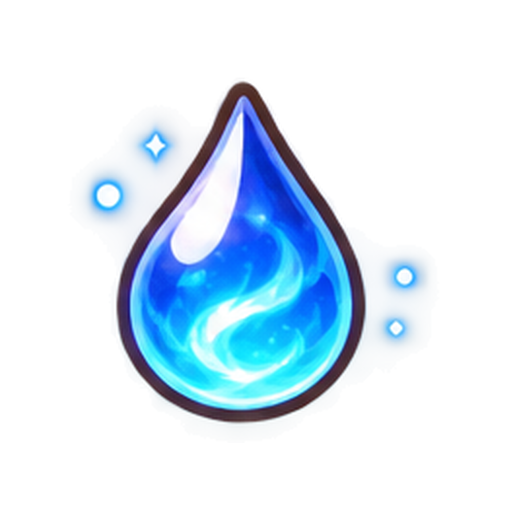
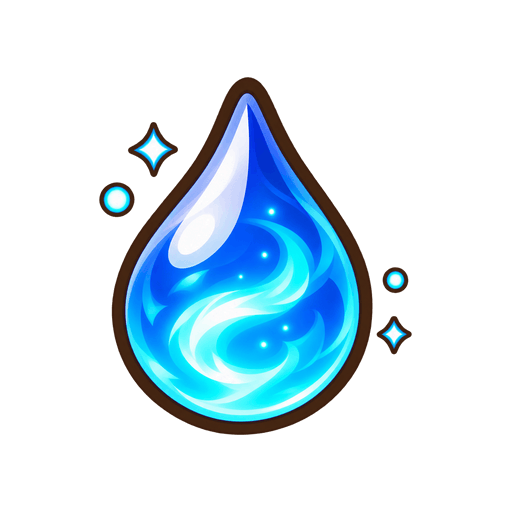
魔力のかけらとしずくを描き直す

Changed region(s): [[0.2188, 0.125, 0.8438, 0.875], [0.1562, 0.3125, 0.2812, 0.4375]]

diff --git a/js/ui/precache.js b/js/ui/precache.js
@@ -1,2 +1,2 @@
-self.CF_CACHE_VERSION="f06e5a0312164f7f";
+self.CF_CACHE_VERSION="4c02900524c205b7";
 self.CF_ASSETS=["index.html","manifest.webmanifest","css/accessibility.css","css/battle.css","css/beast.css","css/card-base.css","css/card-zoom.css","css/chat.css","css/components.css","css/deck.css","css/experience.css","css/finishing-art.css","css/fit.css","css/help-guide.css","css/hologram.css","css/kingdom.css","css/layout.css","css/mana-growth.css","css/materials.css","css/motion.css","css/mp.css","css/polish.css","css/rarity-assets.css","css/rarity-fx.css","css/settings.css","css/step5.css","css/style.css","css/text-fit.css","css/theme.css","css/tokens.css","css/tutorial.css","css/weather.css","js/game/Card.js","js/game/Castle.js","js/game/Game.js","js/game/Monster.js","js/game/Player.js","js/game/Road.js","js/game/Setup.js","js/game/Soldier.js","js/game/Weather.js","js/game/strategies.js","js/game/visibility.js","js/main.js","js/ui/Accessibility.js","js/ui/Animations.js","js/ui/BattleLayout.js","js/ui/CardGuide.js","js/ui/CardInfo.js","js/ui/CardRelief.js","js/ui/CardZoom.js","js/ui/ChatView.js","js/ui/DebugPanel.js","js/ui/DeckEditor.js","js/ui/DeckPreview.js","js/ui/DeckStore.js","js/ui/HandView.js","js/ui/HelpView.js","js/ui/Hologram.js","js/ui/LocalSetup.js","js/ui/MatchStats.js","js/ui/MaterialSkin.js","js/ui/Music.js","js/ui/OnlineClient.js","js/ui/ProgressPanel.js","js/ui/Renderer.js","js/ui/RoomView.js","js/ui/Session.js","js/ui/Settings.js","js/ui/Sound.js","js/ui/Targeting.js","js/ui/Tutorial.js","js/ui/UpgradePanel.js","js/ui/WeatherView.js","js/ui/art.js","js/ui/cardFrame.js","js/ui/cardView.js","js/ui/config.js","js/ui/handOrder.js","js/ui/look.js","js/ui/motion.js","js/ui/pills.js","js/ui/rarity.js","js/ui/stories.js","js/ui/syncCheck.js","js/ui/text.js","data/cards.json","data/castles.json","data/decks.json","data/monsters.json","data/rarities.json","data/rules.json","data/stamps.json","data/upgrades.json","data/weather.json","assets/asset-manifest.json","assets/bg/board-meadow-compact.png","assets/bg/board-meadow.png","assets/bg/board.png","assets/bg/kingdom-meadow.png","assets/bg/kingdom-valley.png","assets/bg/title-compact.png","assets/bg/title.png","assets/cards/card-absolute-zero.png","assets/cards/card-adapt.png","assets/cards/card-apocalypse.png","assets/cards/card-apprentice-archer.png","assets/cards/card-apprentice-mage.png","assets/cards/card-archer.png","assets/cards/card-archmage.png","assets/cards/card-barrier.png","assets/cards/card-beast-bat.png","assets/cards/card-beast-demon-king.png","assets/cards/card-beast-demon.png","assets/cards/card-beast-dragon.png","assets/cards/card-beast-ghost.png","assets/cards/card-beast-goblin.png","assets/cards/card-beast-golem.png","assets/cards/card-beast-mimic.png","assets/cards/card-beast-skeleton.png","assets/cards/card-beast-slime.png","assets/cards/card-beast-treant.png","assets/cards/card-beast-vampire.png","assets/cards/card-big-shield.png","assets/cards/card-big-thunder.png","assets/cards/card-blessing.png","assets/cards/card-bolt.png","assets/cards/card-cavalry.png","assets/cards/card-coin-pouch.png","assets/cards/card-death-mist.png","assets/cards/card-decoy.png","assets/cards/card-deep-freeze.png","assets/cards/card-dragon-knight.png","assets/cards/card-earth-hammer.png","assets/cards/card-earth-king.png","assets/cards/card-earth-spirit.png","assets/cards/card-fire-king.png","assets/cards/card-fire-spirit.png","assets/cards/card-fireball.png","assets/cards/card-flame-sword.png","assets/cards/card-frost-breath.png","assets/cards/card-frozen-world.png","assets/cards/card-gate.png","assets/cards/card-giant.png","assets/cards/card-glacier.png","assets/cards/card-god-shield.png","assets/cards/card-god-sword.png","assets/cards/card-goddess.png","assets/cards/card-gold-coin.png","assets/cards/card-gold-vein.png","assets/cards/card-great-earth-spirit.png","assets/cards/card-great-fire-spirit.png","assets/cards/card-great-heal.png","assets/cards/card-great-water-spirit.png","assets/cards/card-great-wind-spirit.png","assets/cards/card-heal.png","assets/cards/card-heavy.png","assets/cards/card-hero.png","assets/cards/card-holy-light.png","assets/cards/card-holy-shield.png","assets/cards/card-holy-sword.png","assets/cards/card-infantry.png","assets/cards/card-inferno.png","assets/cards/card-iron-sword.png","assets/cards/card-judgment.png","assets/cards/card-king-treasure.png","assets/cards/card-knight.png","assets/cards/card-longbowman.png","assets/cards/card-mage.png","assets/cards/card-magic-sword.png","assets/cards/card-mana-crystal.png","assets/cards/card-mana-drop.png","assets/cards/card-mana-shard.png","assets/cards/card-mana-spring.png","assets/cards/card-meteor.png","assets/cards/card-minor-heal.png","assets/cards/card-paladin.png","assets/cards/card-plague.png","assets/cards/card-poison-mist.png","assets/cards/card-prayer.png","assets/cards/card-raijin.png","assets/cards/card-reflect.png","assets/cards/card-sage.png","assets/cards/card-sandbag.png","assets/cards/card-scout.png","assets/cards/card-shield.png","assets/cards/card-sky-archer.png","assets/cards/card-sniper.png","assets/cards/card-sorcerer.png","assets/cards/card-spearman.png","assets/cards/card-starfall.png","assets/cards/card-steel-shield.png","assets/cards/card-stone-wall.png","assets/cards/card-thief.png","assets/cards/card-thunder.png","assets/cards/card-toxic-rain.png","assets/cards/card-treasure.png","assets/cards/card-venom.png","assets/cards/card-wall.png","assets/cards/card-water-king.png","assets/cards/card-water-spear.png","assets/cards/card-water-spirit.png","assets/cards/card-weather-call.png","assets/cards/card-wind-bow.png","assets/cards/card-wind-king.png","assets/cards/card-wind-spirit.png","assets/cards/card-world-tree-dew.png","assets/cards/frame-beast.png","assets/cards/frame-common.png","assets/cards/frame-defense.png","assets/cards/frame-epic.png","assets/cards/frame-legendary.png","assets/cards/frame-rare.png","assets/cards/frame-soldier.png","assets/cards/frame-special.png","assets/cards/frame-spell.png","assets/cards/frame-uncommon.png","assets/cards/frame-weapon.png","assets/cards/relief/frame-beast-raised.png","assets/cards/relief/frame-beast-relief.png","assets/cards/relief/frame-common-raised.png","assets/cards/relief/frame-common-relief.png","assets/cards/relief/frame-defense-raised.png","assets/cards/relief/frame-defense-relief.png","assets/cards/relief/frame-epic-raised.png","assets/cards/relief/frame-epic-relief.png","assets/cards/relief/frame-legendary-raised.png","assets/cards/relief/frame-legendary-relief.png","assets/cards/relief/frame-rare-raised.png","assets/cards/relief/frame-rare-relief.png","assets/cards/relief/frame-soldier-raised.png","assets/cards/relief/frame-soldier-relief.png","assets/cards/relief/frame-special-raised.png","assets/cards/relief/frame-special-relief.png","assets/cards/relief/frame-spell-raised.png","assets/cards/relief/frame-spell-relief.png","assets/cards/relief/frame-uncommon-raised.png","assets/cards/relief/frame-uncommon-relief.png","assets/cards/relief/frame-weapon-raised.png","assets/cards/relief/frame-weapon-relief.png","assets/castles/barracks-blue-damaged-1.png","assets/castles/barracks-blue-damaged-2.png","assets/castles/barracks-blue-damaged-3.png","assets/castles/barracks-blue.png","assets/castles/barracks-orange-damaged-1.png","assets/castles/barracks-orange-damaged-2.png","assets/castles/barracks-orange-damaged-3.png","assets/castles/barracks-orange.png","assets/castles/castle-blue-damaged-1.png","assets/castles/castle-blue-damaged-2.png","assets/castles/castle-blue-damaged-3.png","assets/castles/castle-blue-ruined.png","assets/castles/castle-blue.png","assets/castles/castle-orange-damaged-1.png","assets/castles/castle-orange-damaged-2.png","assets/castles/castle-orange-damaged-3.png","assets/castles/castle-orange-ruined.png","assets/castles/castle-orange.png","assets/castles/fortress-blue-damaged-1.png","assets/castles/fortress-blue-damaged-2.png","assets/castles/fortress-blue-damaged-3.png","assets/castles/fortress-blue.png","assets/castles/fortress-orange-damaged-1.png","assets/castles/fortress-orange-damaged-2.png","assets/castles/fortress-orange-damaged-3.png","assets/castles/fortress-orange.png","assets/castles/tower-blue-damaged-1.png","assets/castles/tower-blue-damaged-2.png","assets/castles/tower-blue-damaged-3.png","assets/castles/tower-blue.png","assets/castles/tower-orange-damaged-1.png","assets/castles/tower-orange-damaged-2.png","assets/castles/tower-orange-damaged-3.png","assets/castles/tower-orange.png","assets/fx/dust.png","assets/fx/evolve-1.png","assets/fx/evolve-2.png","assets/fx/evolve-3.png","assets/fx/explosion.png","assets/fx/fireball.png","assets/fx/fusion.png","assets/fx/heal.png","assets/fx/ice.png","assets/fx/lightning.png","assets/fx/lucky-reward.png","assets/fx/poison.png","assets/ui/app-icon-192.png","assets/ui/app-icon-512.png","assets/ui/app-icon-maskable-512.png","assets/ui/apple-touch-icon.png","assets/ui/banner-win.png","assets/ui/btn-blue.png","assets/ui/btn-cream.png","assets/ui/btn-green.png","assets/ui/btn-orange.png","assets/ui/btn-red.png","assets/ui/btn-round.png","assets/ui/button-end-turn.png","assets/ui/card-back.png","assets/ui/icon-coin.png","assets/ui/icon-earth.png","assets/ui/icon-fire.png","assets/ui/icon-heart.png","assets/ui/icon-help.png","assets/ui/icon-kind-defense.png","assets/ui/icon-kind-soldier.png","assets/ui/icon-kind-spell.png","assets/ui/icon-kind-weapon.png","assets/ui/icon-kind-wild.png","assets/ui/icon-luck.png","assets/ui/icon-mode-local.png","assets/ui/icon-mode-online.png","assets/ui/icon-mode-solo.png","assets/ui/icon-mp.png","assets/ui/icon-rarity-common.png","assets/ui/icon-rarity-epic.png","assets/ui/icon-rarity-legendary.png","assets/ui/icon-rarity-rare.png","assets/ui/icon-rarity-special.png","assets/ui/icon-rarity-uncommon.png","assets/ui/icon-water.png","assets/ui/icon-wind.png","assets/ui/kingdom-crest.png","assets/ui/kingdom-parchment.png","assets/ui/kingdom-platform.png","assets/ui/kingdom-primary.png","assets/ui/kingdom-secondary.png","assets/ui/kingdom-wood.png","assets/ui/logo.png","assets/ui/natural/danger-40-left.png","assets/ui/natural/danger-40-middle.png","assets/ui/natural/danger-40-right.png","assets/ui/natural/danger-44-left.png","assets/ui/natural/danger-44-middle.png","assets/ui/natural/danger-44-right.png","assets/ui/natural/danger-72-left.png","assets/ui/natural/danger-72-middle.png","assets/ui/natural/danger-72-right.png","assets/ui/natural/frame.png","assets/ui/natural/leather-tile.png","assets/ui/natural/neutral-40-left.png","assets/ui/natural/neutral-40-middle.png","assets/ui/natural/neutral-40-right.png","assets/ui/natural/neutral-44-left.png","assets/ui/natural/neutral-44-middle.png","assets/ui/natural/neutral-44-right.png","assets/ui/natural/neutral-72-left.png","assets/ui/natural/neutral-72-middle.png","assets/ui/natural/neutral-72-right.png","assets/ui/natural/neutral-wide-full.png","assets/ui/natural/oak-tile.png","assets/ui/natural/paper-tile.png","assets/ui/natural/primary-40-left.png","assets/ui/natural/primary-40-middle.png","assets/ui/natural/primary-40-right.png","assets/ui/natural/primary-44-left.png","assets/ui/natural/primary-44-middle.png","assets/ui/natural/primary-44-right.png","assets/ui/natural/primary-72-left.png","assets/ui/natural/primary-72-middle.png","assets/ui/natural/primary-72-right.png","assets/ui/natural/primary-wide-full.png","assets/ui/natural/round-neutral.png","assets/ui/natural/round-selected.png","assets/ui/natural/selected-40-left.png","assets/ui/natural/selected-40-middle.png","assets/ui/natural/selected-40-right.png","assets/ui/natural/selected-44-left.png","assets/ui/natural/selected-44-middle.png","assets/ui/natural/selected-44-right.png","assets/ui/natural/selected-72-left.png","assets/ui/natural/selected-72-middle.png","assets/ui/natural/selected-72-right.png","assets/ui/panel-parchment.png","assets/ui/result-defeat.png","assets/ui/result-victory.png","assets/ui/sign-hp.png","assets/ui/stamps/again.png","assets/ui/stamps/gg.png","assets/ui/stamps/go.png","assets/ui/stamps/hello.png","assets/ui/stamps/nice.png","assets/ui/stamps/ouch.png","assets/ui/stamps/scared.png","assets/ui/stamps/smug.png","assets/ui/stamps/sorry.png","assets/ui/stamps/thanks.png","assets/ui/stamps/think.png","assets/ui/stamps/yay.png","assets/ui/tap-plate.png","assets/ui/title-castle-blue.png","assets/ui/title-castle-orange.png","assets/ui/title-infantry-orange.png","assets/ui/title-knight-blue.png","assets/ui/weather-coin-rain.png","assets/ui/weather-fog.png","assets/ui/weather-heavy-rain.png","assets/ui/weather-rain.png","assets/ui/weather-sandstorm.png","assets/ui/weather-storm.png","assets/ui/weather-sunny.png","assets/units/apprentice-archer-blue.png","assets/units/apprentice-archer-orange.png","assets/units/apprentice-mage-blue.png","assets/units/apprentice-mage-orange.png","assets/units/archer-blue.png","assets/units/archer-orange.png","assets/units/archmage-blue.png","assets/units/archmage-orange.png","assets/units/cavalry-blue.png","assets/units/cavalry-orange.png","assets/units/dragon-knight-blue.png","assets/units/dragon-knight-orange.png","assets/units/earth-spirit.png","assets/units/fire-spirit.png","assets/units/giant-blue.png","assets/units/giant-orange.png","assets/units/great-earth-spirit.png","assets/units/great-fire-spirit.png","assets/units/great-water-spirit.png","assets/units/great-wind-spirit.png","assets/units/heavy-blue.png","assets/units/heavy-orange.png","assets/units/hero-blue.png","assets/units/hero-orange.png","assets/units/infantry-blue.png","assets/units/infantry-orange.png","assets/units/knight-blue.png","assets/units/knight-orange.png","assets/units/longbowman-blue.png","assets/units/longbowman-orange.png","assets/units/mage-blue.png","assets/units/mage-orange.png","assets/units/monster-bat.png","assets/units/monster-demon-king.png","assets/units/monster-demon.png","assets/units/monster-dragon.png","assets/units/monster-ghost.png","assets/units/monster-goblin.png","assets/units/monster-golem.png","assets/units/monster-mimic.png","assets/units/monster-skeleton.png","assets/units/monster-slime.png","assets/units/monster-treant.png","assets/units/monster-vampire.png","assets/units/paladin-blue.png","assets/units/paladin-orange.png","assets/units/sage-blue.png","assets/units/sage-orange.png","assets/units/scout-blue.png","assets/units/scout-orange.png","assets/units/sky-archer-blue.png","assets/units/sky-archer-orange.png","assets/units/sniper-blue.png","assets/units/sniper-orange.png","assets/units/sorcerer-blue.png","assets/units/sorcerer-orange.png","assets/units/spearman-blue.png","assets/units/spearman-orange.png","assets/units/water-spirit.png","assets/units/wind-spirit.png"];
